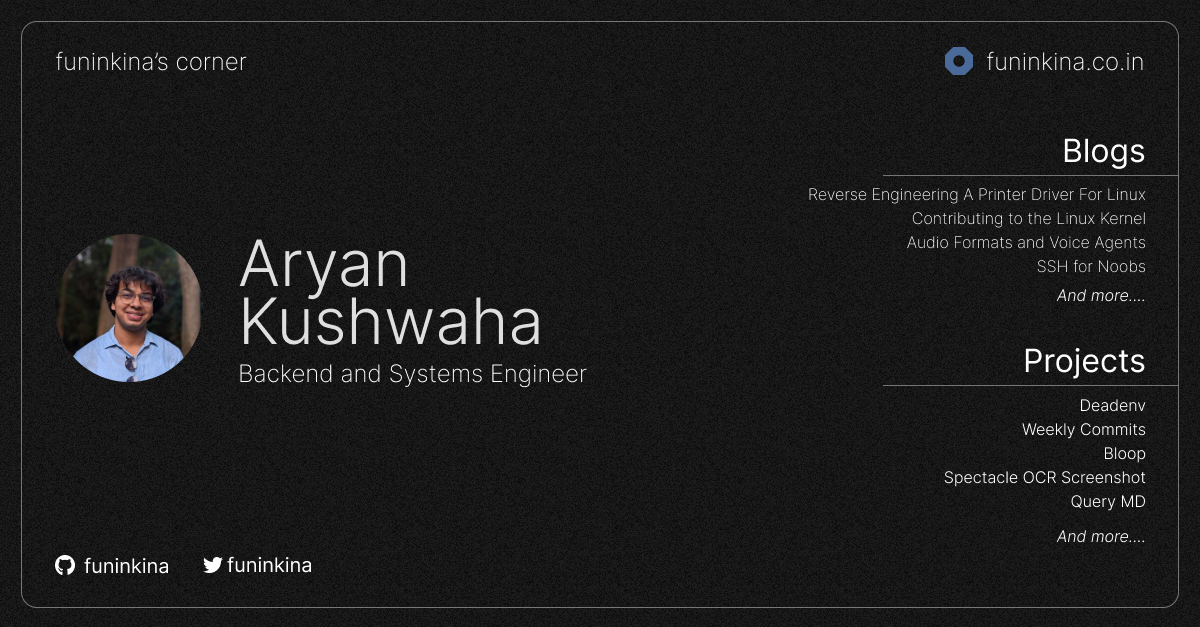
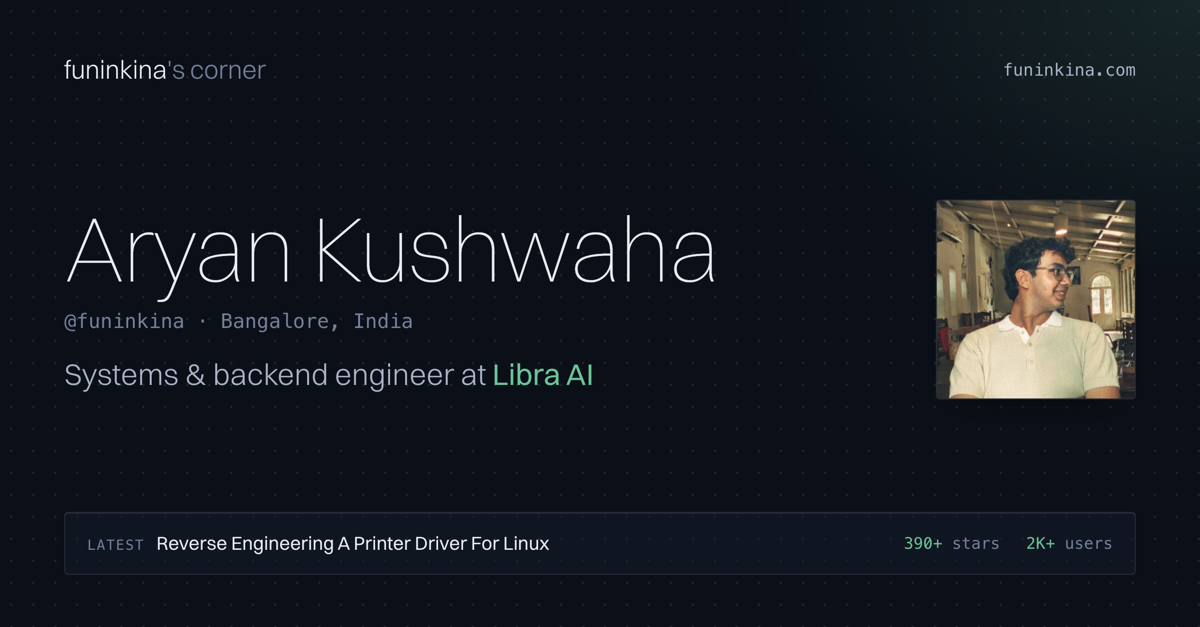
Redesign social preview to match the site, generated by scripts/og.sh

diff --git a/layouts/_default/og.html b/layouts/_default/og.html
@@ -1,0 +1,64 @@
+{{- /* Social preview card, screenshotted by scripts/og.sh into static/default-header.png.
+       Draft-only (content/og.md), so it never ships. */ -}}
+{{- $post := index (where site.RegularPages.ByDate.Reverse "Section" "blog") 0 -}}
+{{- $intro := hugo.Data.highlights.intro -}}
+{{- $stars := index (findRESubmatch `(\S+) stars` $intro) 0 1 -}}
+{{- $users := index (findRESubmatch `(\S+) users` $intro) 0 1 -}}
+{{- $av := (resources.Get "avatar.jpg").Resize "400x400 webp" -}}
+<!DOCTYPE html>
+<html lang="en">
+<head>
+<meta charset="utf-8">
+<style>
+  @font-face { font-family: Switzer; src: url("/fonts/Switzer-Variable.woff2") format("woff2"); font-weight: 100 900; }
+  :root { --bg: #0b1018; --text: #e9eef6; --text-2: #a9b4c8; --text-3: #74819a; --green: #6cc49a;
+          --line: rgba(233, 238, 246, 0.1); --glass: rgba(20, 28, 40, 0.55); --mono: "SF Mono", ui-monospace, Menlo, monospace; }
+  * { box-sizing: border-box; margin: 0; }
+  html, body { width: 1200px; height: 627px; overflow: hidden; }
+  body {
+    display: grid; grid-template-rows: auto 1fr auto; padding: 52px 64px;
+    background:
+      radial-gradient(600px 400px at 100% 0%, color-mix(in srgb, var(--green) 12%, transparent), transparent 70%),
+      radial-gradient(rgba(233, 238, 246, 0.09) 1px, transparent 1.5px) 0 0 / 22px 22px,
+      var(--bg);
+    color: var(--text); font-family: Switzer, sans-serif; -webkit-font-smoothing: antialiased;
+  }
+  header, footer { display: flex; justify-content: space-between; align-items: center; }
+  .site { font-size: 26px; font-weight: 300; letter-spacing: -0.01em; }
+  .site span { color: var(--text-3); }
+  .url { font: 17px var(--mono); color: var(--text-2); }
+  main { display: grid; grid-template-columns: 1fr auto; align-items: center; gap: 48px; }
+  h1 { font-size: 92px; font-weight: 150; letter-spacing: -0.02em; line-height: 0.95; }
+  .alias { display: block; margin-top: 18px; font: 20px var(--mono); color: var(--text-3); }
+  .role { margin-top: 22px; font-size: 30px; font-weight: 300; color: var(--text-2); }
+  .role b { font-weight: 400; color: var(--green); }
+  img { width: 200px; height: 200px; object-fit: cover; border-radius: 4px; border: 1px solid rgba(255, 255, 255, 0.12);
+        box-shadow: inset 0 1px 0 rgba(255, 255, 255, 0.12), 0 18px 40px -24px rgba(0, 0, 0, 0.7); }
+  footer { padding: 18px 22px; border: 1px solid var(--line); border-radius: 4px; background: var(--glass);
+           box-shadow: inset 0 1px 0 rgba(255, 255, 255, 0.08); font-size: 19px; }
+  .latest { color: var(--text-2); white-space: nowrap; overflow: hidden; text-overflow: ellipsis; max-width: 720px; }
+  .latest em { font: normal 14px var(--mono); color: var(--text-3); text-transform: uppercase; letter-spacing: 0.08em; margin-right: 12px; }
+  .latest span { color: var(--text); }
+  .stats { display: flex; gap: 26px; font: 16px var(--mono); color: var(--text-3); }
+  .stats b { color: var(--green); font-weight: 500; }
+</style>
+</head>
+<body>
+  <header>
+    <p class="site">funinkina<span>'s corner</span></p>
+    <p class="url">{{ (urls.Parse site.BaseURL).Host }}</p>
+  </header>
+  <main>
+    <div>
+      <h1>{{ .Params.name }}</h1>
+      <span class="alias">@funinkina · {{ site.Params.location }}</span>
+      <p class="role">{{ site.Params.subtitle | replaceRE `at (.+)$` "at <b>$1</b>" | safeHTML }}</p>
+    </div>
+    <img src="{{ $av.RelPermalink }}" alt="">
+  </main>
+  <footer>
+    <p class="latest"><em>Latest</em><span>{{ $post.Title }}</span></p>
+    <p class="stats"><span><b>{{ $stars }}</b> stars</span><span><b>{{ $users }}</b> users</span></p>
+  </footer>
+</body>
+</html>

diff --git a/content/og.md b/content/og.md
@@ -1,0 +1,8 @@
+---
+title: "Social preview"
+layout: og
+draft: true
+name: "Aryan Kushwaha"
+sitemap:
+  disable: true
+---
